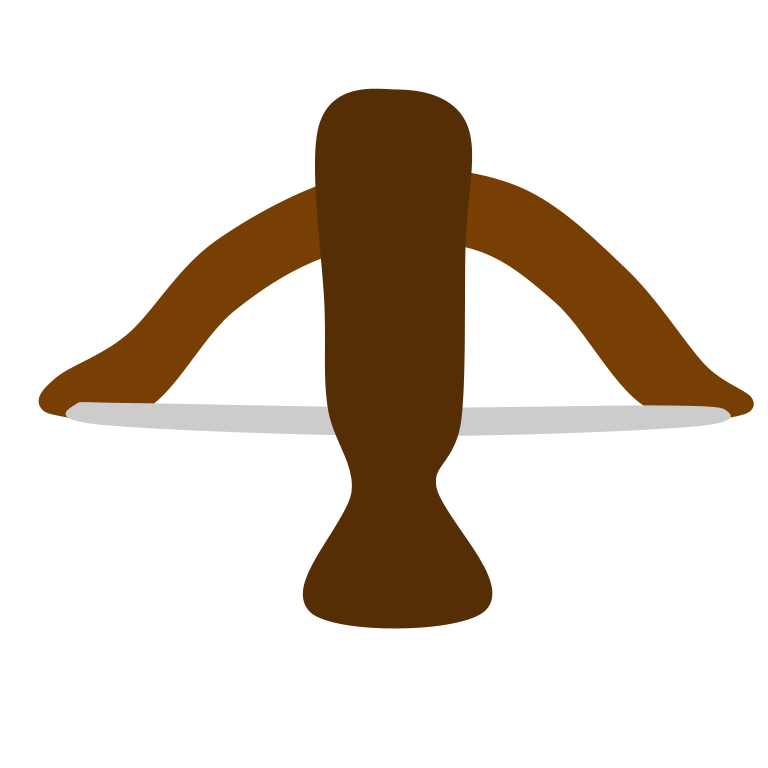
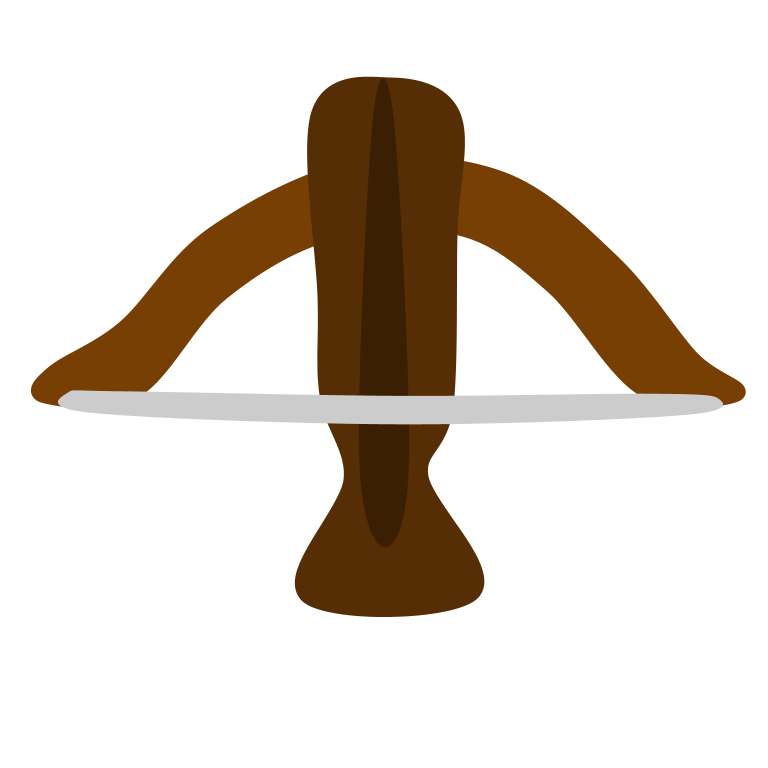
Update the bow

diff --git a/app.js b/app.js
@@ -128,7 +128,7 @@ const holdableItems = {
         pic:"/imgs/Arrow.png",
         durability:Infinity,
         maxDurability:Infinity,
-        damage:20,
+        damage:1,
         generationProbability:75, //out of 100
         rotation:0,
         stackSize:1, //start out stack Size
@@ -142,7 +142,7 @@ const holdableItems = {
         name:"Bow",  // MUST MATCH KEY!
         class:"Bow",
         pic:"/imgs/Bow.png",
-        loadedBowPic:"/imgs/Bow_And_Arrow.png",
+        //loadedBowPic:"/imgs/Bow_And_Arrow.png",
         durability:100,
         maxDurability:100,
         damage:5,
@@ -152,7 +152,7 @@ const holdableItems = {
         maxStackSize:1,
         cost: 1000, //market value
         hitRange: maxLoad,
-        cooldownTime: 20 , //* 1/speedFactor, //ms till next use
+        cooldownTime: 0, //20 bc now hold down for power/damage
         cooldownTimer:0
     },
     "Spear":{
@@ -948,9 +948,11 @@ class Boss extends Enemy{
     }
 }
 class Archer extends Enemy{
-    constructor(x, y, type="Archer", imgSrc="/imgs/Enemy_Archer.png", damage=10, detectRange=750, reloadTime=150, speed=3.5, health = 100, w=entitySize, h=entitySize){
+    constructor(x, y, type="Archer", imgSrc="/imgs/Enemy_Archer.png", damage=10, detectRange=750, reloadTime=150, speed=3.5, health=100, w=entitySize, h=entitySize){
         super(x, y, type, imgSrc, damage, detectRange, reloadTime, speed, health, w, h, [{...holdableItems["Bow"]}, {...holdableItems["Arrow"]}], 0)
-        this.shootRange = 250 // to walk closer before shooting...
+        this.shootRange = 350 // to walk closer before shooting...
+        this.holdDuration = 0
+        this.holdNum = 0
     }
     move(){
         //move normally if not holding bow
@@ -985,23 +987,19 @@ class Archer extends Enemy{
                     if(!this.justAttacked){
                         //Apparently NO!...
                         this.speed = 0 //stop movement
-                        this.justAttacked = true //you just attacked... -_-
-                        let arrowOffsetMaxDeg = 10//deg // how many IN DEGREES +- can be offset shot
-                        let arrowDirection = this.rotation + Math.PI + (random(1, -1) * (random(arrowOffsetMaxDeg, 0) * (Math.PI/180))) //possible +- 45 deg offset shot
-                        //SHOOT ARROW!
-                        projectiles[createID()] = new Projectile(
-                            "Arrow", 
-                            this.x + Math.cos(arrowDirection) * entitySize, 
-                            this.y + Math.sin(arrowDirection) * entitySize, 
-                            50, 50, arrowDirection, this, holdableItems["Arrow"].durability);
-
-                        this.inventory[this.invSelected].durability -= 1
-                        //bow breaks !? O_O
-                        if(this.inventory[this.invSelected].durability <= 0){
-                            this.inventory[this.invSelected] = {...holdableItems["Hand"]}
+                        
+                        //load up...
+                        this.holdNum += 1
+                        this.holdDuration = Math.floor(this.holdNum/(100*this.cooldownSF))>5?5:Math.floor(this.holdNum/10)+1
+                        //change pic
+                        this.inventory[this.invSelected].pic = `/imgs/Bow${this.holdDuration}.png`
+                        //fire!
+                        if(this.holdDuration == 5) {
+                            this.shootArrow(this.holdDuration) //FIRE!!
+                            this.holdNum = 0 //reset
                         }
                     }
-            }
+                }
             } else{ 
                 this.speed = this.maxSpeed
                 if (!this.moving) {
@@ -1029,7 +1027,29 @@ class Archer extends Enemy{
             this.speed = this.maxSpeed
             super.move()
         }
-        
+    }
+    shootArrow(holdDuration){
+        this.justAttacked = true //you just attacked... -_-
+        let arrowOffsetMaxDeg = 10//deg // how many IN DEGREES +- can be offset shot
+        let arrowDirection = this.rotation + Math.PI + (random(1, -1) * (random(arrowOffsetMaxDeg, 0) * (Math.PI/180))) //possible +- 45 deg offset shot
+        //SHOOT ARROW!
+        //make da arrow
+        projectiles[createID()] = new Projectile(
+            "Arrow", 
+            this.x + Math.cos(arrowDirection) * entitySize, 
+            this.y + Math.sin(arrowDirection) * entitySize, 
+            50, 50, arrowDirection, this, holdableItems["Arrow"].durability,
+            projectilesObj["Arrow"].speed + 1.5 * (holdDuration-1), //ZOOM
+            projectilesObj["Arrow"].flightDuration + 5 * (holdDuration-1), //wee! 
+            projectilesObj["Arrow"].damage + 2.5 * (holdDuration-1), //that's gotta hurt
+        )
+        this.inventory[this.invSelected].pic = "/imgs/Bow.png"
+
+        this.inventory[this.invSelected].durability -= 1
+        //bow breaks !? O_O
+        if(this.inventory[this.invSelected].durability <= 0){
+            this.inventory[this.invSelected] = {...holdableItems["Hand"]}
+        }
     }
 }
 
@@ -1068,7 +1088,7 @@ var projectiles = {}
 const projectilesObj = {
     "Arrow":{
         damage:holdableItems["Arrow"].damage,
-        flightDuration:50,
+        flightDuration:10,
         imgSrc:"/imgs/Arrow.png",
         speed:10
     },
@@ -1080,20 +1100,20 @@ const projectilesObj = {
     }
 }
 class Projectile{
-    constructor(type, x, y, w, h, dir, whoShot, durability){
+    constructor(type, x, y, w, h, dir, whoShot, durability, speed=null, duration=null, damage=null){
         this.type = type //key inside holdable items!
         this.x = x
         this.y = y
         this.rotation = dir + Math.PI/2//for drawing (neds to be rotwated 90 deg)
         this.direction = dir //for direction purposes
-        this.duration = projectilesObj[type].flightDuration
-        this.speed = projectilesObj[type].speed
+        this.speed = speed?speed:projectilesObj[type].speed
+        this.duration = duration?duration:projectilesObj[type].flightDuration
+        this.damage = damage?damage:projectilesObj[type].damage
 
         this.imgSrc = projectilesObj[type].imgSrc
         this.width = w
         this.height = h
 
-        this.damage = projectilesObj[type].damage
 
         this.whoShot = whoShot
 
@@ -1303,10 +1323,12 @@ setInterval(()=>{
                                 `${entity.username} was sniped from afar by ${whoShotIt} with an ${projectile.type}.`
                             ];
                             let deathMessage = messages[Math.floor(Math.random() * messages.length)];
-                            let player = entities[projectiles[key].whoShot.id];
-                            player.xp += entity.xp;
-                            player.kills++;
-                            entity.deathMessage = `You were shot by ${player.username}`
+                            let p = entities[projectiles[key].whoShot.id];
+                            p.xp += entity.xp;
+                            p.kills++;
+                            let name = p.username
+                            if(entity.username) if(entity.username == p.username) name = "yourself."
+                            entity.deathMessage = `You were shot by ${name}`
                             console.log(deathMessage);
                         } else{
                             entity.deathMessage = ["An archer shot you.", "A monster shot you with an arrow.", "You were killed by an archer's arrow."][random(2,0)]
@@ -1564,7 +1586,7 @@ io.sockets.on("connection", (socket)=>{
         }
     })
 
-    //deal damage or other mousedown events O.O 
+    //deal damage or other mousedown/up events O.O 
     socket.on("mousedown", function(data){
         let player = entities[id]
         if(player){
@@ -1572,38 +1594,13 @@ io.sockets.on("connection", (socket)=>{
             let tool = player.inventory[player.invSelected]
             //ranged attack
             if (tool.name === "Bow") {
-                // Check for arrow in inventory
-                let canShoot = player.inventory.some(invSlot => invSlot.name === "Arrow");
-            
                 // Shoot arrow
-                if (canShoot) {
-                    let arrowDirection = player.rotation + Math.PI;
-                    
-                    projectiles[createID()] = new Projectile(
-                        "Arrow", 
-                        player.x + Math.cos(arrowDirection) * entitySize, 
-                        player.y + Math.sin(arrowDirection) * entitySize, 
-                        50, 50, arrowDirection, player, holdableItems["Arrow"].durability);
-            
-                    // Decrease arrow stack or remove from inventory
-                    for (let slot = 0; slot < player.inventory.length; slot++) {
-                        let invSlot = player.inventory[slot];
-                        if (invSlot.name === "Arrow") {
-                            if (invSlot.stackSize > 1) {
-                                invSlot.stackSize -= 1;
-                            } else {
-                                player.inventory[slot] = { ...holdableItems["Hand"]};
-                            }
-                            break;
-                        }
-                    }
-
-                    //damage bow
-                    tool.durability -= 1
-                    usedItem = true // item was used!
+                if (player.inventory.some(invSlot => invSlot.name === "Arrow")) //canShoot
+                {
+                    let holdDuration = ((data.holdDuration>=5)?4:data.holdDuration)+1 //max = Bow5.png
+                    player.inventory[player.invSelected].pic = `/imgs/Bow${holdDuration}.png`
                 }
-            }  
-            else if(tool.name === "Spear"){
+            } else if(tool.name === "Spear"){
                 let spearDirection = player.rotation + Math.PI;
                 
                 tool.durability -= 1
@@ -1698,7 +1695,50 @@ io.sockets.on("connection", (socket)=>{
             if (usedItem) {socket.emit("giveInventoryItemCooldownTime", {id:data.invID})}
         }
     })
+    socket.on("mouseup", function(data){
+        let player = entities[id]
+        if(player){
+            let tool = player.inventory[player.invSelected]
+            if (tool.name === "Bow") {
+                // Check for arrow in inventory
+                let canShoot = player.inventory.some(invSlot => invSlot.name === "Arrow");
+                // Shoot arrow
+                if (canShoot) {
+                    let holdDuration = ((data.holdDuration>=5)?4:data.holdDuration)+1 //max = Bow5.png
+                    player.inventory[player.invSelected].pic = `/imgs/Bow.png`
+                    let arrowDirection = player.rotation + Math.PI;
+                    
+                    //make da arrow
+                    projectiles[createID()] = new Projectile(
+                        "Arrow", 
+                        player.x + Math.cos(arrowDirection) * entitySize, 
+                        player.y + Math.sin(arrowDirection) * entitySize, 
+                        50, 50, arrowDirection, player, holdableItems["Arrow"].durability,
+                        projectilesObj["Arrow"].speed + 1.5 * (holdDuration-1), //ZOOM
+                        projectilesObj["Arrow"].flightDuration + 5 * (holdDuration-1), //wee! 
+                        projectilesObj["Arrow"].damage + 5 * (holdDuration-1), //that's gotta hurt
+                    )
 
+                    // Decrease arrow stack or remove from inventory
+                    for (let slot = 0; slot < player.inventory.length; slot++) {
+                        let invSlot = player.inventory[slot];
+                        if (invSlot.name === "Arrow") {
+                            if (invSlot.stackSize > 1) {
+                                invSlot.stackSize -= 1;
+                            } else {
+                                player.inventory[slot] = { ...holdableItems["Hand"]};
+                            }
+                            break;
+                        }
+                    }
+
+                    //damage bow
+                    tool.durability -= 1
+                    usedItem = true // item was used!
+                }
+            }
+        } 
+    })
     //buy
     socket.on("buy", function(data){
         let player = entities[id]

diff --git a/client/actions.js b/client/actions.js
@@ -167,14 +167,15 @@ function updateCanv(info, serverPlayerCount, leaderboard){
         //draw held item
         if(item.inventory){
             let heldItem = item.inventory[item.invSelected]
-            let pic;
+            let pic = heldItem.pic
             //if held is a bow, make it loaded if has arrow (the picture)
+            /*
             if(heldItem.name == "Bow"){
                 item.inventory.forEach(invSlot=>{
                     if(invSlot.name == "Arrow"){pic = heldItem.loadedBowPic}
                 })
-                if(!pic){pic = heldItem.pic}
-            } else pic = heldItem.pic
+            } 
+            */
             //when pic is defined...(hand has no pic)
             if(pic){//hand's pic is false, so...
                 if(!images[pic]){
@@ -795,7 +796,25 @@ function mousemove(e) {
         lastEnteredSlot = newIndex; // Update the last entered slot
     }
 }
+//is mouse down and still down?
+var holding
+var holdDuration = 0
 function mousedown(e) {
+    //holding operations
+    holding = setInterval(()=>{
+        holdDuration += 1
+        //console.log(holdDuration)
+        if(player.inventory[player.invSelected].name == "Bow"){
+            socket.emit("mousedown", {
+                x: player.x + (mouse.x / scale),
+                y: player.y + (mouse.y / scale),
+                scale: scale,
+                invID: player.invSelected,
+                holdDuration: holdDuration
+            });
+        }
+    }, 1000) // every  s
+
     // cannot switch inv while help open, cannot attack
     // also, cannot activate when pressing btns
     if (!helpOpen && e.target.tagName.toLowerCase() !== 'button') {
@@ -810,18 +829,19 @@ function mousedown(e) {
             }
         }
         
-        if (
-            player.health > 0 
+        if (player.health > 0 
             && !clickedInv 
             && player.inventory[player.invSelected].cooldownTimer == 0
             && attackCursorOn
+            && player.inventory[player.invSelected].name !== "Bow"
         ){// Check if not in cooldown
             //EMIT MOUSE DOWN EVENT (function performed in APP.Js (server-side))
             socket.emit("mousedown", {
                 x: player.x + (mouse.x / scale),
                 y: player.y + (mouse.y / scale),
                 scale: scale,
-                invID: player.invSelected
+                invID: player.invSelected,
+                holdDuration: holdDuration
             });
         }
     }
@@ -841,6 +861,30 @@ function mousedown(e) {
     }
 }
 function mouseup(e) {
+    //check if clicked inv
+    let clickedInv = false;
+    for (let i = 0; i < player.inventory.length; i++) {
+        let x = i * invSize;
+        let y = invY;
+        if (x < e.clientX && e.clientX < x + invSize && y < e.clientY && e.clientY < y + invSize) {
+            currInvSlot = i;
+            i += player.inventory.length;
+            clickedInv = true;
+        }
+    }
+    //reset holding vars
+    if(holding){
+        if(!helpOpen && e.target.tagName.toLowerCase() !== 'button' 
+        && !clickedInv
+        && player.health > 0 
+        && player.inventory[player.invSelected].cooldownTimer == 0){
+            socket.emit("mouseup", {holdDuration:holdDuration})
+        }
+        holdDuration = 0
+        clearInterval(holding)
+    }
+
+    //
     if (!reorderInventory || draggedItemIndex === -1) return;
     draggedItemIndex = -1;
     reorderInventory = false;
